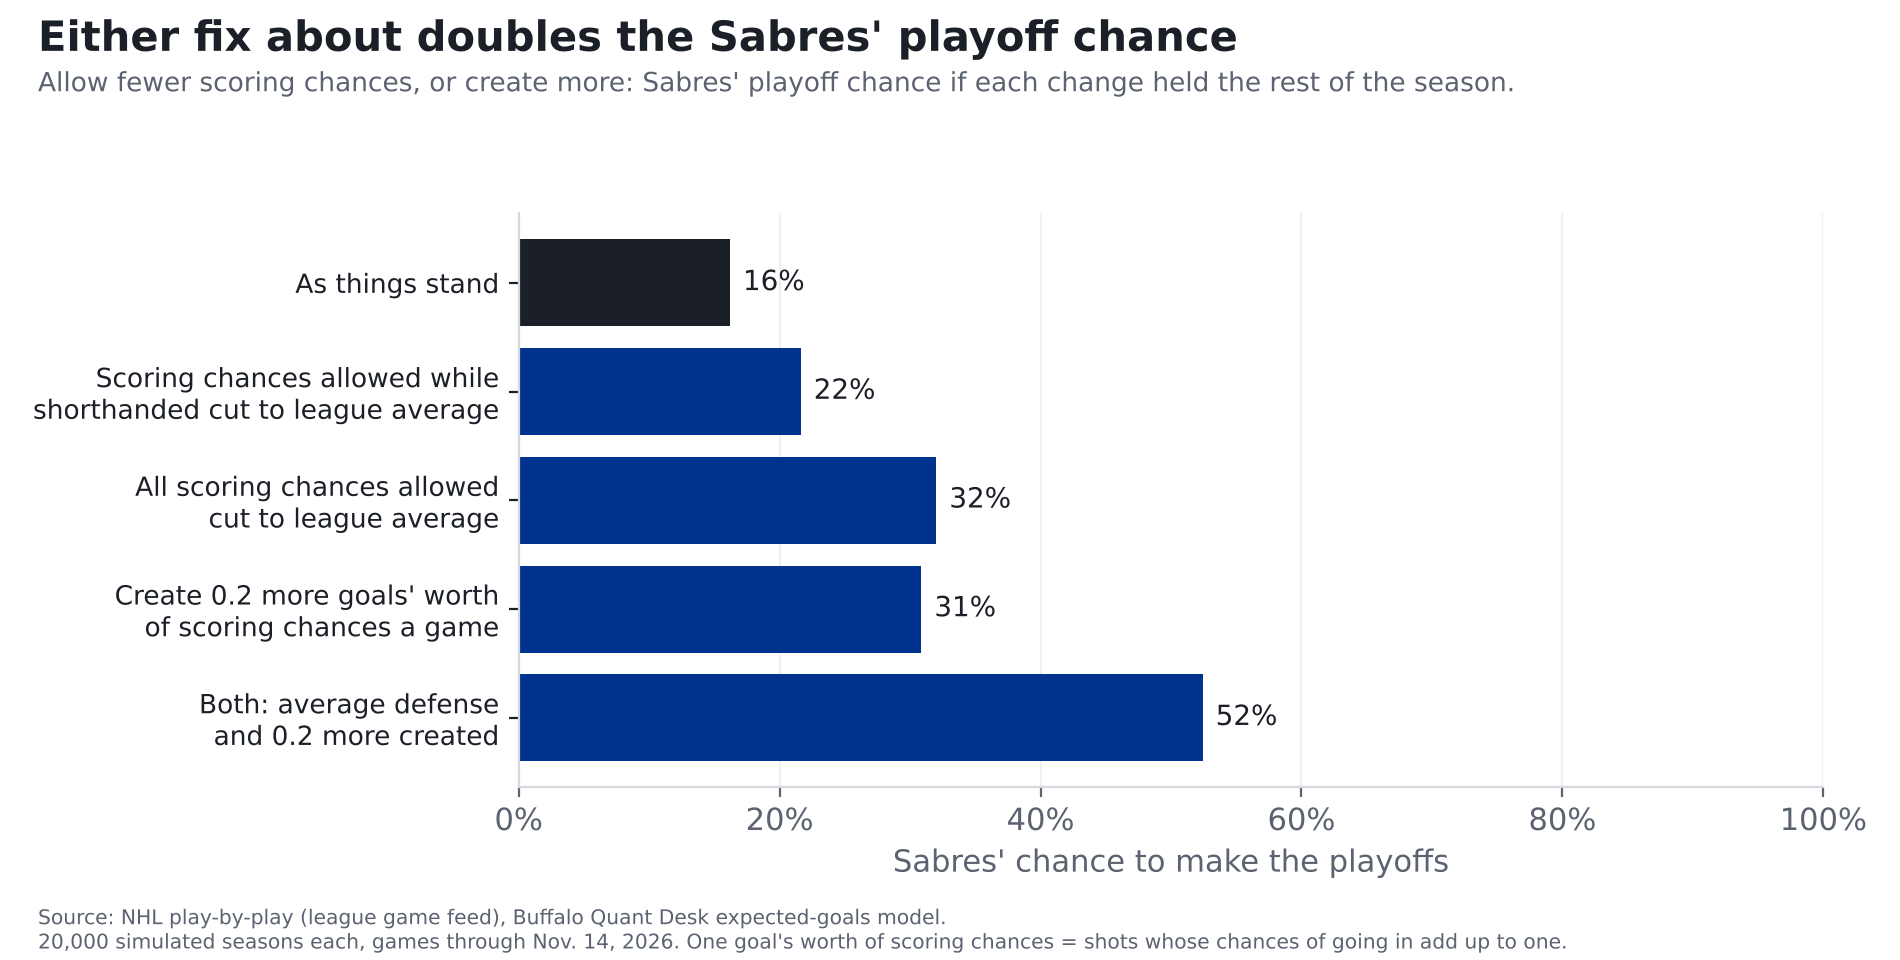
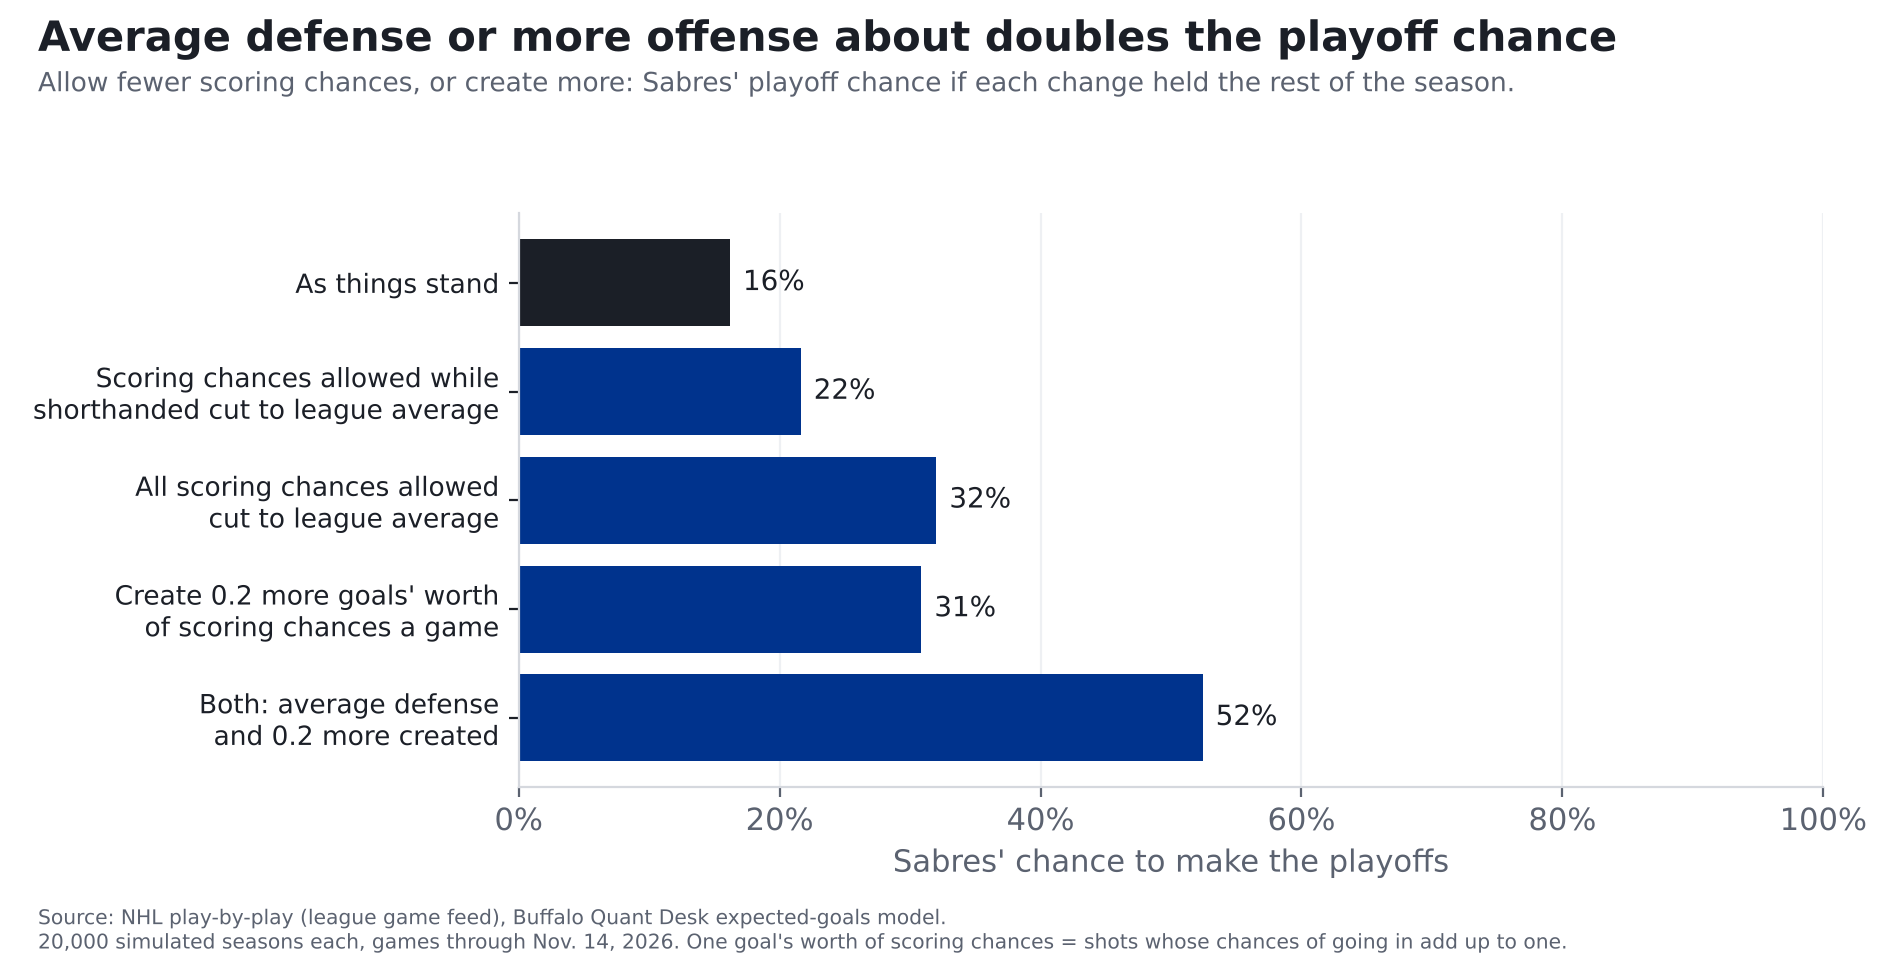
Sabres playoff chances: what-if chart title (Editor round 3)
Claude-Session: https://claude.ai/code/session_01EpbAX6JnKtFz2fDinmFKsj

Changed region(s): [[0.0, 0.0, 0.8695, 0.0625]]

diff --git a/src/reports/sabres_playoff_chances.py b/src/reports/sabres_playoff_chances.py
@@ -264,7 +264,7 @@ def main():
     ax.set_xlim(0, 1); ax.xaxis.set_major_formatter(matplotlib.ticker.PercentFormatter(1, decimals=0))
     ax.set_xlabel("Sabres' chance to make the playoffs")
     ax.grid(axis="x", color="#EEF0F3"); ax.set_axisbelow(True)
-    finish(fig, "Either fix about doubles the Sabres' playoff chance",
+    finish(fig, "Average defense or more offense about doubles the playoff chance",
            "Allow fewer scoring chances, or create more: Sabres' playoff chance if each change held the rest of the season.",
            f"{N_SIMS:,} simulated seasons each, games through Nov. 14, 2026. One goal's worth of scoring chances = shots whose chances of going in add up to one.")
     fig.savefig(OUT / "sabres-playoffs-whatif.png"); plt.close(fig)

diff --git a/reports/reviews/2026-11-15-sabres-playoff-chances-editor.md b/reports/reviews/2026-11-15-sabres-playoff-chances-editor.md
@@ -1,55 +1,29 @@
-# Editor re-check (stage 3, round 2): 2026-11-15-sabres-playoff-chances
+# Editor re-check (stage 3, round 3): 2026-11-15-sabres-playoff-chances, charts
 
-I re-read the current story body (not "For the stat-heads"), all three charts as rendered PNGs, the hero JSON and the site dek.
+I opened both re-rendered PNGs. The story text is unchanged from round 2, which was already ready.
 
-## One-sentence version
+## Points chart: ready
+- The subtitle fits now: "...Shaded: where the last Eastern playoff spot usually lands."
+- The title is the takeaway, and the "about 94" note reads on its own.
 
-"The Sabres aren't done, but they're about a 1-in-6 shot. The cold shooting and goaltending should even out. The scoring chances they give up won't fix themselves. Cut those to league average and their playoff chance doubles, to 32%." This is now the lead.
+## What-if chart: one fix needed (FAIL this round)
+Nothing is clipped any more, and the title and subtitle no longer overlap. The problem is the title's wording.
 
-## Verdict: needs edits (FAIL this round). The text is ready; two charts are clipped
+**"Either fix" misreads.** The chart shows four changes. On a screenshot, a fan reads "either fix" as any of the bars, including the
+shorthanded one, which moves the Sabres from 16% to 22%. That's not double. The subtitle ("Allow fewer scoring chances, or create
+more") doesn't rescue it, because the shorthanded bar is also a way to allow fewer scoring chances.
 
-Every round-1 text edit landed and reads well:
-- The lead names the 32% fix.
-- "Scoring chances" and "playoff chance" are kept apart everywhere.
-- The shorthanded share is now "the biggest single piece" (about 42%), with where the rest comes from.
-- Benson is now 1 goal on 7.3 plus an empty-netter, so "about 6 of 7" checks out.
-- Player numbers are per 84 games, with the column "Track record says".
-- The shot example is in: 13.8% within 10 feet, 0.8% from 60+ feet.
-- The scorecard now says lower is better.
-- The new under-5% caution is honest and clear.
-- Units, the standings column, "0.00", the "10th-most of 32" wording and the goalie so-what line are all fixed.
-- The hero and dek read on their own. The Ledger call is unchanged and fine.
-
-The round fails only because two chart texts run off the edge of the image. A fan sharing a screenshot loses the end of the takeaway.
-
-## Required edits
-
-### 1. What-if chart title is cut off ("…doubles the Sabre")
-`src/reports/sabres_playoff_chances.py:267`. Replace
-`"Fewer scoring chances against, or more for: either one about doubles the Sabres' playoff chance"`
+**Required:** in `src/reports/sabres_playoff_chances.py`, replace the title
+`Either fix about doubles the Sabres' playoff chance`
 with
-`"Allow fewer scoring chances or create more: either one about doubles the Sabres' playoff chance"`
-Also check the rendered PNG. If it still overflows, wrap it with `\n` after `create more:`. Wrapping is the only way to keep the whole takeaway at this font size.
+`Average defense or more offense about doubles Sabres' playoff chance`
 
-### 2. Points chart subtitle is cut off ("…usually lands in th")
-`src/reports/sabres_playoff_chances.py:238`. Replace
-`Shaded: where the last Eastern playoff spot usually lands in those seasons.`
-with
-`Shaded: where the last Eastern playoff spot usually lands.`
-The title already says "our simulated seasons", so nothing is lost. Re-open the PNG to confirm it fits.
+Why this wording works:
+- The two bars that double the chance are labeled "All scoring chances allowed cut to league average" (32%) and "Create 0.2 more...", and the last bar says "average defense".
+- So the new title points at exactly those two bars. The shorthanded bar is plainly a piece of "average defense", not all of it.
+- It's 68 characters, which should fit on one line (the current 51-character title uses about two-thirds of the width).
+- Re-open the PNG to confirm it fits. If it doesn't, use the shorter `Average defense or more offense about doubles the playoff chance`. The subtitle already says Sabres.
 
-## Optional polish (doesn't block a pass)
+Keep the subtitle as it is.
 
-### 3. "fit on" is model talk
-Line 327: replace `Last season, the one the model was never fit on, was the hardest:` with `Last season, the one the model never learned from, was the hardest:`
-
-### 4. "about half of a gap like this" still reads awkwardly
-Line 409: replace `It's the most specific fix on the list, and if nothing changes, about half of a gap like this tends to stick around.` with
-`It's the most specific fix on the list, and it's the kind of problem that tends to stick around if nothing changes.`
-
-## Charts
-- Points: the title is the takeaway and the "about 94" note reads on its own. The subtitle is clipped (edit 2).
-- Carry-over: ready.
-- What-if: the bar labels stand alone and the 22% matches the Quant's fix. The title is clipped (edit 1).
-
-When edits 1 and 2 are in and the PNGs are re-checked, this passes. Nothing else needs another full round.
+Once that title is in and fits on one line, the editor stage passes. No further text review is needed.

diff --git a/reports/reviews/2026-11-15-sabres-playoff-chances-editor-recheck2.md b/reports/reviews/2026-11-15-sabres-playoff-chances-editor-recheck2.md
@@ -1,0 +1,29 @@
+# Editor re-check (stage 3, round 3): 2026-11-15-sabres-playoff-chances, charts
+
+I opened both re-rendered PNGs. The story text is unchanged from round 2, which was already ready.
+
+## Points chart: ready
+- The subtitle fits now: "...Shaded: where the last Eastern playoff spot usually lands."
+- The title is the takeaway, and the "about 94" note reads on its own.
+
+## What-if chart: one fix needed (FAIL this round)
+Nothing is clipped any more, and the title and subtitle no longer overlap. The problem is the title's wording.
+
+**"Either fix" misreads.** The chart shows four changes. On a screenshot, a fan reads "either fix" as any of the bars, including the
+shorthanded one, which moves the Sabres from 16% to 22%. That's not double. The subtitle ("Allow fewer scoring chances, or create
+more") doesn't rescue it, because the shorthanded bar is also a way to allow fewer scoring chances.
+
+**Required:** in `src/reports/sabres_playoff_chances.py`, replace the title
+`Either fix about doubles the Sabres' playoff chance`
+with
+`Average defense or more offense about doubles Sabres' playoff chance`
+
+Why this wording works:
+- The two bars that double the chance are labeled "All scoring chances allowed cut to league average" (32%) and "Create 0.2 more...", and the last bar says "average defense".
+- So the new title points at exactly those two bars. The shorthanded bar is plainly a piece of "average defense", not all of it.
+- It's 68 characters, which should fit on one line (the current 51-character title uses about two-thirds of the width).
+- Re-open the PNG to confirm it fits. If it doesn't, use the shorter `Average defense or more offense about doubles the playoff chance`. The subtitle already says Sabres.
+
+Keep the subtitle as it is.
+
+Once that title is in and fits on one line, the editor stage passes. No further text review is needed.
